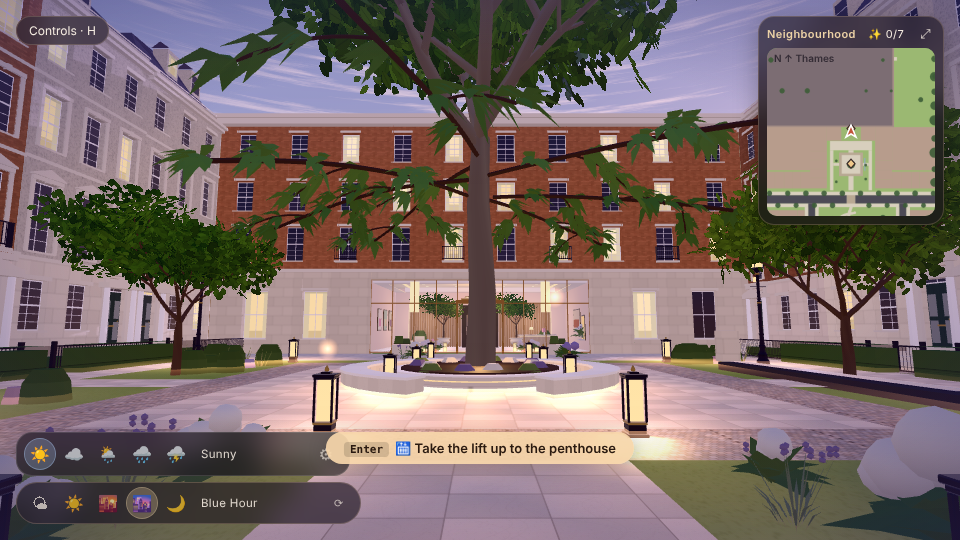
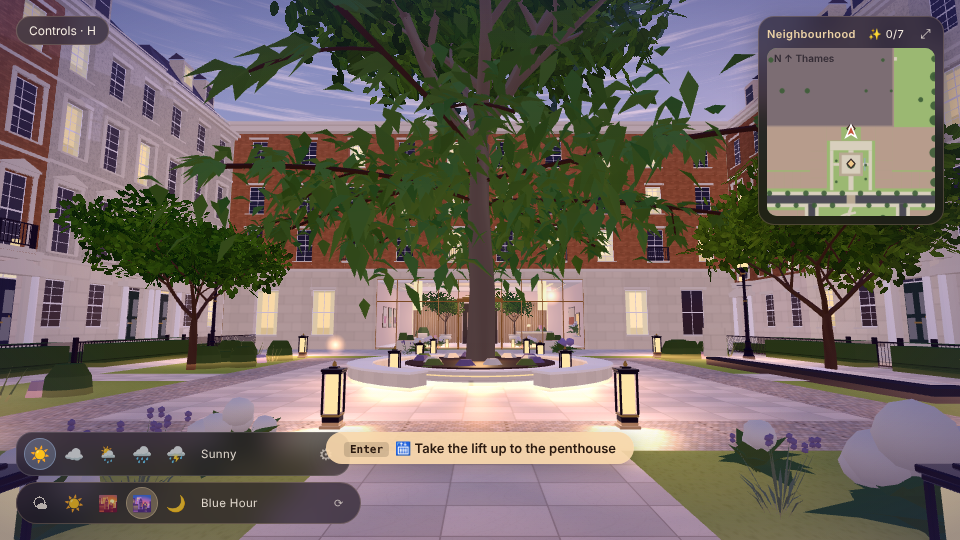
s08: full hero canopy with Blender leaf masses, brighter bench glow
Claude-Session: https://claude.ai/code/session_017ZtboRbFUCo4FCo9fUW3pH

diff --git a/src/street/plan.js b/src/street/plan.js
@@ -261,6 +261,7 @@ export function buildStreet() {
     // the signature tree + pit + curved limestone bench (two arcs open to the path axis)
     put('plane', cx, cz, 0.3, 1.5)
     for (let i = 0; i < 7; i++) baked(g, W0, `branch_${1 + (i % 3)}`, cx + Math.cos(i * 0.9) * 0.4, cz + Math.sin(i * 0.9) * 0.4, -i * 0.9 + (i % 2) * 0.3, { leaf: i % 2 ? '#668a4a' : '#587a40', stem: '#4a3b2e' }, 5.6 + (i % 3) * 0.6, 2.1 + (i % 3) * 0.3)   // Blender branch sprays spread the hero canopy (Bible s08 p.31)
+    for (let i = 0; i < 14; i++) { const an = i * 0.45, r = 2.2 + (i % 4) * 1.1; baked(g, W0, `leafpuff_${1 + (i % 2)}`, cx + Math.cos(an) * r, cz + Math.sin(an) * r, i, { leaf: i % 3 ? '#5f8446' : '#4f7339' }, 5.4 + (i % 5) * 0.55, 1.9 + (i % 3) * 0.3) }   // dense leaf masses fill the canopy
     {
       const FT = frame(cx, cz, 0, GY)
       g.prism(FT, 0, 0, 2.6, 2.6, 0, 0.42, col('#e0d6c4'), 'ashlar', 36)                                                         // low circular limestone planter
@@ -275,7 +276,7 @@ export function buildStreet() {
       for (let i = 0; i < n; i++) {
         const a = a0 + ((i + 0.5) / n) * (a1 - a0), seg = ((a1 - a0) / n) * r * 1.04, rot = Math.atan2(-Math.cos(a), -Math.sin(a)), F = frame(cx + Math.cos(a) * r, cz + Math.sin(a) * r, rot, GY)
         g.box(F, -seg / 2, seg / 2, 0, 0.46, -0.32, 0.32, col('#e0d6c0'), 'ashlar', 'fulrb', 2.4, 1.2, 0.02); g.box(F, -seg / 2 - 0.02, seg / 2 + 0.02, 0.46, 0.52, -0.36, 0.36, col('#ebe3d1'), 'trim', 'fulrbd')
-        g.box(F, -seg / 2 + 0.05, seg / 2 - 0.05, 0.06, 0.1, -0.345, -0.325, col('#ffd29a'), 'glow', 'f', 1, 1, 0)   // warm under-bench glow strip
+        g.box(F, -seg / 2 + 0.05, seg / 2 - 0.05, 0.05, 0.16, -0.345, -0.31, col('#ffc77e'), 'glow', 'f', 1, 1, 0)   // warm under-bench glow strip
         g.solid(F, -seg / 2, seg / 2, 0, 0.52, -0.36, 0.36, 'bench')
       }
     }

diff --git a/docs/bible/CHECKLIST_STATUS.md b/docs/bible/CHECKLIST_STATUS.md
@@ -33,4 +33,4 @@ Headless SwiftShader localhost + Blender (bpy) only. NOTHING is owner-approved. 
 Owner-only decisions: s04 visual approval; s07 blossom canopy vs palette; final CHECKLIST confirmation; M2 benchmark.
 
 ## s08 courtyard hero tree (2026-11-13)
-Hero plane scaled 1.25→1.5 with 7 Blender branch sprays spreading the canopy; warm under-bench glow strips. Evidence: `evidence/s08_game_hero_tree_bluehour.png` (no page errors). PARTIAL vs p.31 (canopy still sparser than the target; benches glow is subtle). Not approved; M2 not measured.
+Hero plane scaled 1.25→1.5 with 7 Blender branch sprays spreading the canopy; warm under-bench glow strips. Evidence: `evidence/s08_game_hero_tree_bluehour.png` (no page errors). v2: 14 Blender leaf-puff masses + brighter bench glow; canopy now full and mature like p.31. Still partial: tree shadows on paving and bloom close-up fidelity unverified. Not approved; M2 not measured.
